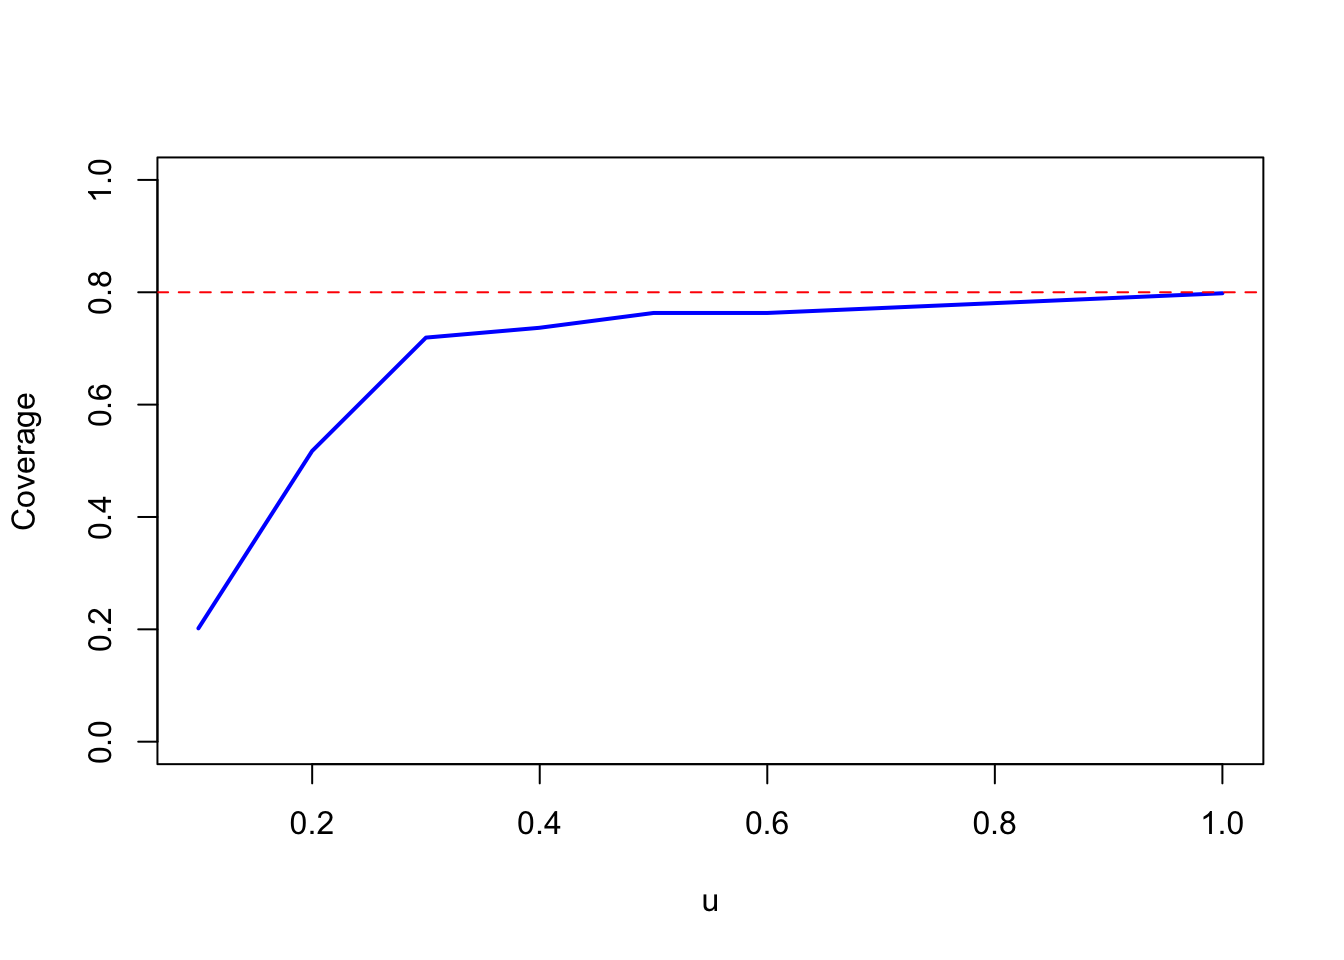
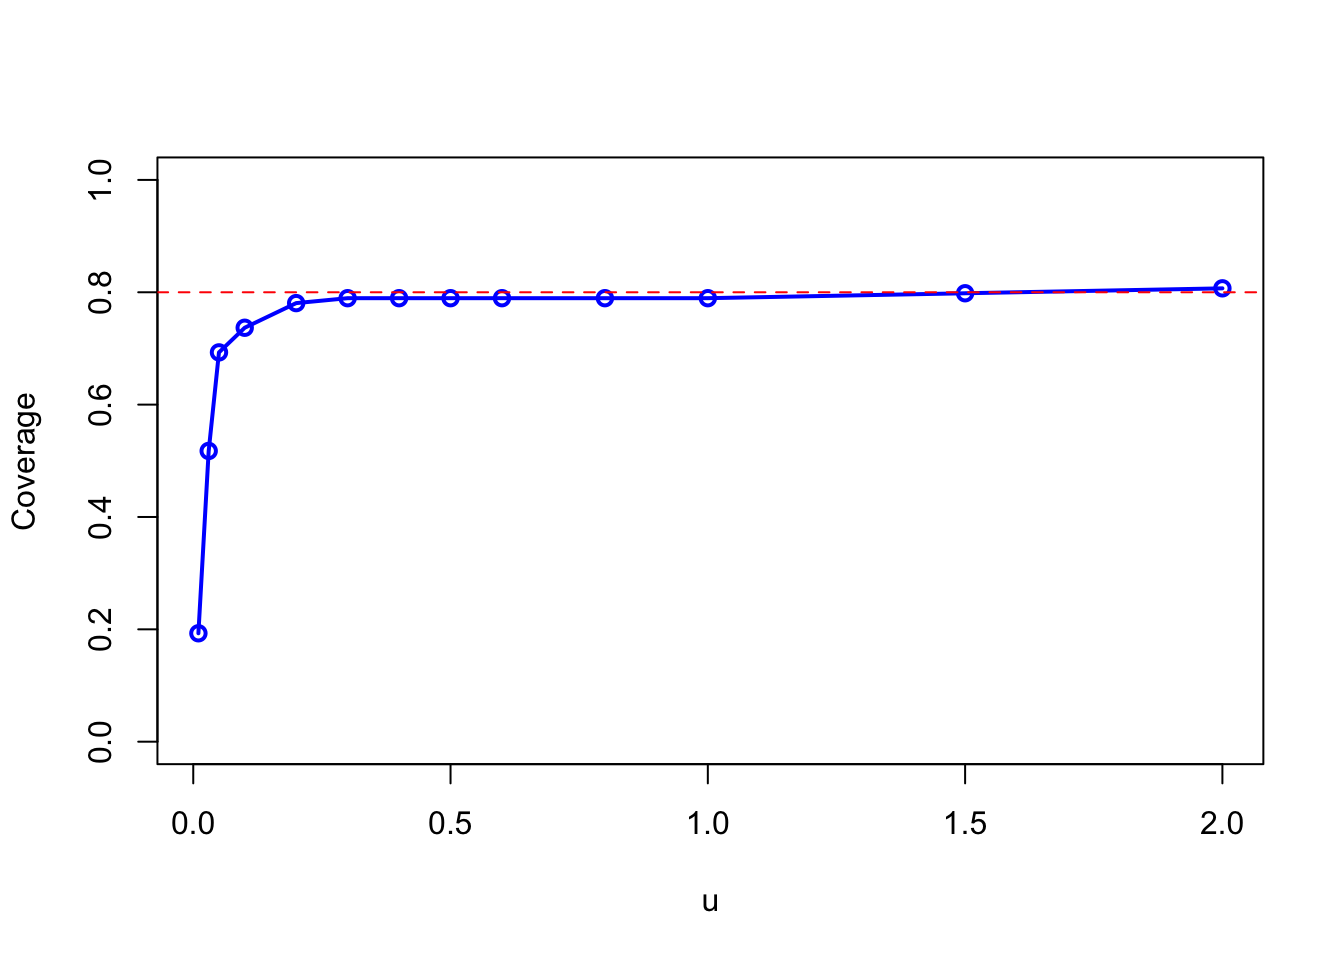
Build site.

diff --git a/docs/sensitivity.html b/docs/sensitivity.html
@@ -388,7 +388,7 @@ class="glyphicon glyphicon-ok text-success" aria-hidden="true"></span>
 <div class="tab-content">
 <div id="summary" class="tab-pane fade in active">
 <p>
-<strong>Last updated:</strong> 2024-11-24
+<strong>Last updated:</strong> 2024-11-26
 </p>
 <p>
 <strong>Checks:</strong> <span
@@ -519,15 +519,15 @@ project makes it easier to run your code on other machines.</p>
 <div class="panel panel-default">
 <div class="panel-heading">
 <p class="panel-title">
-<a data-toggle="collapse" data-parent="#workflowr-checks" href="#strongRepositoryversionstrongahrefhttpsgithubcomAgueroZZonlinetuttree77ac32805b6c5d533b9079aaa66abd3066edd3eatargetblank77ac328a">
+<a data-toggle="collapse" data-parent="#workflowr-checks" href="#strongRepositoryversionstrongahrefhttpsgithubcomAgueroZZonlinetuttree9cc521451b4ab4d7166ab4a18ec641b4ec87e103targetblank9cc5214a">
 <span class="glyphicon glyphicon-ok text-success"
 aria-hidden="true"></span> <strong>Repository version:</strong>
-<a href="https://github.com/AgueroZZ/online_tut/tree/77ac32805b6c5d533b9079aaa66abd3066edd3ea" target="_blank">77ac328</a>
+<a href="https://github.com/AgueroZZ/online_tut/tree/9cc521451b4ab4d7166ab4a18ec641b4ec87e103" target="_blank">9cc5214</a>
 </a>
 </p>
 </div>
 <div
[2 lines of base64/hex data omitted]
 class="panel-collapse collapse">
 <div class="panel-body">
 <p>
@@ -537,7 +537,7 @@ reproducibility.
 </p>
 <p>
 The results in this page were generated with repository version
-<a href="https://github.com/AgueroZZ/online_tut/tree/77ac32805b6c5d533b9079aaa66abd3066edd3ea" target="_blank">77ac328</a>.
+<a href="https://github.com/AgueroZZ/online_tut/tree/9cc521451b4ab4d7166ab4a18ec641b4ec87e103" target="_blank">9cc5214</a>.
 See the <em>Past versions</em> tab to see a history of the changes made
 to the R Markdown and HTML files.
 </p>
@@ -564,7 +564,7 @@ Untracked files:
     Untracked:  code/tut.so
 
 Unstaged changes:
-    Modified:   analysis/index.Rmd
+    Modified:   analysis/more_comparison.rmd
 
 </code></pre>
 <p>
@@ -609,6 +609,40 @@ Message
 </tr>
 </thead>
 <tbody>
+<tr>
+<td>
+Rmd
+</td>
+<td>
+<a href="https://github.com/AgueroZZ/online_tut/blob/9cc521451b4ab4d7166ab4a18ec641b4ec87e103/analysis/sensitivity.rmd" target="_blank">9cc5214</a>
+</td>
+<td>
+Ziang Zhang
+</td>
+<td>
+2024-11-26
+</td>
+<td>
+workflowr::wflow_publish("analysis/sensitivity.rmd")
+</td>
+</tr>
+<tr>
+<td>
+html
+</td>
+<td>
+<a href="https://rawcdn.githack.com/AgueroZZ/online_tut/d296bb48b31ada0375b6394acd24afabf0e6726d/docs/sensitivity.html" target="_blank">d296bb4</a>
+</td>
+<td>
+Ziang Zhang
+</td>
+<td>
+2024-11-24
+</td>
+<td>
+Build site.
+</td>
+</tr>
 <tr>
 <td>
 Rmd
@@ -688,10 +722,9 @@ prior on <span class="math inline">\(\sigma\)</span> is through an
 Exponential prior on its <span class="math inline">\(h\)</span>-step
 predictive SD <span class="math inline">\(\sigma(h)\)</span>, with the
 form of <span class="math display">\[
-\text{P}[\sigma(h)&gt;u] = q,
-\]</span> where <span class="math inline">\(u\)</span> is the threshold
-and <span class="math inline">\(q\)</span> is the exceedance
-probability.</p>
+\text{P}[\sigma(h)&gt;u] = 0.5,
+\]</span> where <span class="math inline">\(u\)</span> is prior
+median.</p>
 <p>In this tutorial, we will examine the sensitivity of the sGP model to
 the choice of the prior on <span class="math inline">\(\sigma\)</span>
 by fitting the model to the Lynx dataset with different priors on <span
@@ -715,7 +748,7 @@ and then returns the posterior summary of the fitted model.</p>
 <pre class="r"><code>fit_once &lt;- function(u, alpha){
   pred_SD &lt;- list(u = u, alpha = alpha)
   results_sGP &lt;- BayesGP::model_fit(
-    formula = y ~ f(x = year, model = &quot;sgp&quot;, k = 100,
+    formula = y ~ f(x = year, model = &quot;sgp&quot;, k = 30,
                     period = 10,
                     sd.prior = list(param = pred_SD, h = 50), 
                     initial_location = &quot;left&quot;, region = region_lynx) +
@@ -725,11 +758,10 @@ and then returns the posterior summary of the fitted model.</p>
   pred_g1 &lt;- predict(results_sGP, newdata = data.frame(x = x, year = data$year), variable = &quot;year&quot;, include.intercept = T, quantiles = c(0.1,0.9))
   return(pred_g1)
 }</code></pre>
-<p>First, we fixed the exceedance probability at <span
-class="math inline">\(0.01\)</span> and tried different values of <span
-class="math inline">\(u\)</span>.</p>
-<pre class="r"><code>alpha = 0.01
-u_vec = seq(0.1, 1, by = 0.1)
+<p>Let’s try different values of <span
+class="math inline">\(u\)</span>:</p>
+<pre class="r"><code>alpha = 0.5
+u_vec = c(0.01, 0.03, 0.05, 0.1, 0.2, 0.3, 0.4, 0.5, 0.6, 0.8, 1, 1.5, 2)
 pred_summary &lt;- lapply(u_vec, fit_once, alpha = alpha)
 pred_means &lt;- do.call(rbind, lapply(pred_summary, function(x) x$mean))</code></pre>
 <p>Let’s plot the posterior mean</p>
@@ -783,7 +815,7 @@ Ziang Zhang
 <p>We could also plot the MSE of the posterior mean for different values
 of <span class="math inline">\(u\)</span>.</p>
 <pre class="r"><code>MSEs &lt;- apply(pred_means, 1, function(x) mean((x - data$logy)^2))
-plot(u_vec, MSEs, type = &quot;l&quot;, col = &quot;blue&quot;, lwd = 2, xlab = &quot;u&quot;, ylab = &quot;MSE&quot;)</code></pre>
+plot(u_vec, MSEs, type = &quot;o&quot;, col = &quot;blue&quot;, lwd = 2, xlab = &quot;u&quot;, ylab = &quot;MSE&quot;)</code></pre>
 <p><img src="figure/sensitivity.rmd/unnamed-chunk-6-1.png" width="672" style="display: block; margin: auto;" /></p>
 <p>
 <button type="button" class="btn btn-default btn-xs btn-workflowr btn-workflowr-fig" data-toggle="collapse" data-target="#fig-unnamed-chunk-6-1">
@@ -822,14 +854,14 @@ Ziang Zhang
 </table>
 </div>
 </div>
-<p>Overall, unless the value of <span class="math inline">\(u\)</span>
-is too small, the MSE is not sensitive to the choice of <span
-class="math inline">\(u\)</span>.</p>
-<p>We could similar check how the coverage of the 95% credible interval
+<p>Overall, unless the value of the prior median <span
+class="math inline">\(u\)</span> is too small, the MSE is not sensitive
+to <span class="math inline">\(u\)</span>.</p>
+<p>We could similar check how the coverage of the 80% credible interval
 changes with different values of <span
 class="math inline">\(u\)</span>.</p>
 <pre class="r"><code>coverage &lt;- lapply(pred_summary, function(x) mean(data$logy &gt; x$q0.1 &amp; data$logy &lt; x$q0.9))
-plot(u_vec, coverage, type = &quot;l&quot;, col = &quot;blue&quot;, lwd = 2, xlab = &quot;u&quot;, ylab = &quot;Coverage&quot;, ylim = c(0,1))
+plot(u_vec, coverage, type = &quot;o&quot;, col = &quot;blue&quot;, lwd = 2, xlab = &quot;u&quot;, ylab = &quot;Coverage&quot;, ylim = c(0,1))
 abline(h = 0.8, col = &quot;red&quot;, lty = &quot;dashed&quot;)</code></pre>
 <p><img src="figure/sensitivity.rmd/unnamed-chunk-7-1.png" width="672" style="display: block; margin: auto;" /></p>
 <p>
@@ -857,106 +889,6 @@ Date
 <tr>
 <td>
 <a href="https://github.com/AgueroZZ/online_tut/blob/0218bdfe2ce85ce2728d073516d798137c05543b/docs/figure/sensitivity.rmd/unnamed-chunk-7-1.png" target="_blank">0218bdf</a>
-</td>
-<td>
-Ziang Zhang
-</td>
-<td>
-2024-11-21
-</td>
-</tr>
-</tbody>
-</table>
-</div>
-</div>
-</div>
-<div id="varying-the-exceedance-probability" class="section level2">
-<h2>Varying the exceedance probability</h2>
-<p>Next, we replicate the same analysis for other exceedance
-probabilities:</p>
-<pre class="r"><code>alpha_vec = c(0.01, 0.05, 0.1, 0.5)
-u_vec = seq(0.1, 1, by = 0.1)
-pred_summary_list &lt;- lapply(alpha_vec, function(alpha) lapply(u_vec, fit_once, alpha = alpha))</code></pre>
-<p>Put everything on the same plot for visualization:</p>
-<pre class="r"><code>pred_means_list &lt;- lapply(pred_summary_list, function(pred_summary) do.call(rbind, lapply(pred_summary, function(x) x$mean)))
-
-MSE_mat &lt;- lapply(pred_means_list, function(pred_means) apply(pred_means, 1, function(x) mean((x - data$logy)^2)))
-
-# change list to matrix
-MSE_mat &lt;- do.call(cbind, MSE_mat)
-matplot(u_vec, MSE_mat, type = &quot;l&quot;, col = rainbow(length(alpha_vec)), lwd = 2, xlab = &quot;u&quot;, ylab = &quot;MSE&quot;)
-legend(&quot;topright&quot;, legend = paste(&quot;alpha =&quot;, alpha_vec), col = rainbow(length(alpha_vec)), lty = 1, cex = 1)</code></pre>
-<p><img src="figure/sensitivity.rmd/unnamed-chunk-9-1.png" width="672" style="display: block; margin: auto;" /></p>
-<p>
-<button type="button" class="btn btn-default btn-xs btn-workflowr btn-workflowr-fig" data-toggle="collapse" data-target="#fig-unnamed-chunk-9-1">
-Past versions of unnamed-chunk-9-1.png
-</button>
-</p>
-<div id="fig-unnamed-chunk-9-1" class="collapse">
-<div class="table-responsive">
-<table class="table table-condensed table-hover">
-<thead>
-<tr>
-<th>
-Version
-</th>
-<th>
-Author
-</th>
-<th>
-Date
-</th>
-</tr>
-</thead>
-<tbody>
-<tr>
-<td>
-<a href="https://github.com/AgueroZZ/online_tut/blob/0218bdfe2ce85ce2728d073516d798137c05543b/docs/figure/sensitivity.rmd/unnamed-chunk-9-1.png" target="_blank">0218bdf</a>
-</td>
-<td>
-Ziang Zhang
-</td>
-<td>
-2024-11-21
-</td>
-</tr>
-</tbody>
-</table>
-</div>
-</div>
-<p>Now, let’s check how the coverage probability changes with different
-values of <span class="math inline">\(u\)</span> and <span
-class="math inline">\(\alpha\)</span>.</p>
-<pre class="r"><code>coverage_mat &lt;- lapply(pred_summary_list, function(pred_summary) lapply(pred_summary, function(x) mean(data$logy &gt; x$q0.1 &amp; data$logy &lt; x$q0.9)))
-coverage_mat &lt;- do.call(cbind, coverage_mat)
-matplot(u_vec, coverage_mat, type = &quot;l&quot;, col = rainbow(length(alpha_vec)), lwd = 2, xlab = &quot;u&quot;, ylab = &quot;Coverage&quot;, ylim = c(0,1))
-legend(&quot;bottomright&quot;, legend = paste(&quot;alpha =&quot;, alpha_vec), col = rainbow(length(alpha_vec)), lty = 1, cex = 1)</code></pre>
-<p><img src="figure/sensitivity.rmd/unnamed-chunk-10-1.png" width="672" style="display: block; margin: auto;" /></p>
-<p>
-<button type="button" class="btn btn-default btn-xs btn-workflowr btn-workflowr-fig" data-toggle="collapse" data-target="#fig-unnamed-chunk-10-1">
-Past versions of unnamed-chunk-10-1.png
-</button>
-</p>
-<div id="fig-unnamed-chunk-10-1" class="collapse">
-<div class="table-responsive">
-<table class="table table-condensed table-hover">
-<thead>
-<tr>
-<th>
-Version
-</th>
-<th>
-Author
-</th>
-<th>
-Date
-</th>
-</tr>
-</thead>
-<tbody>
-<tr>
-<td>
-<a href="https://github.com/AgueroZZ/online_tut/blob/0218bdfe2ce85ce2728d073516d798137c05543b/docs/figure/sensitivity.rmd/unnamed-chunk-10-1.png" target="_blank">0218bdf</a>
 </td>
 <td>
 Ziang Zhang
